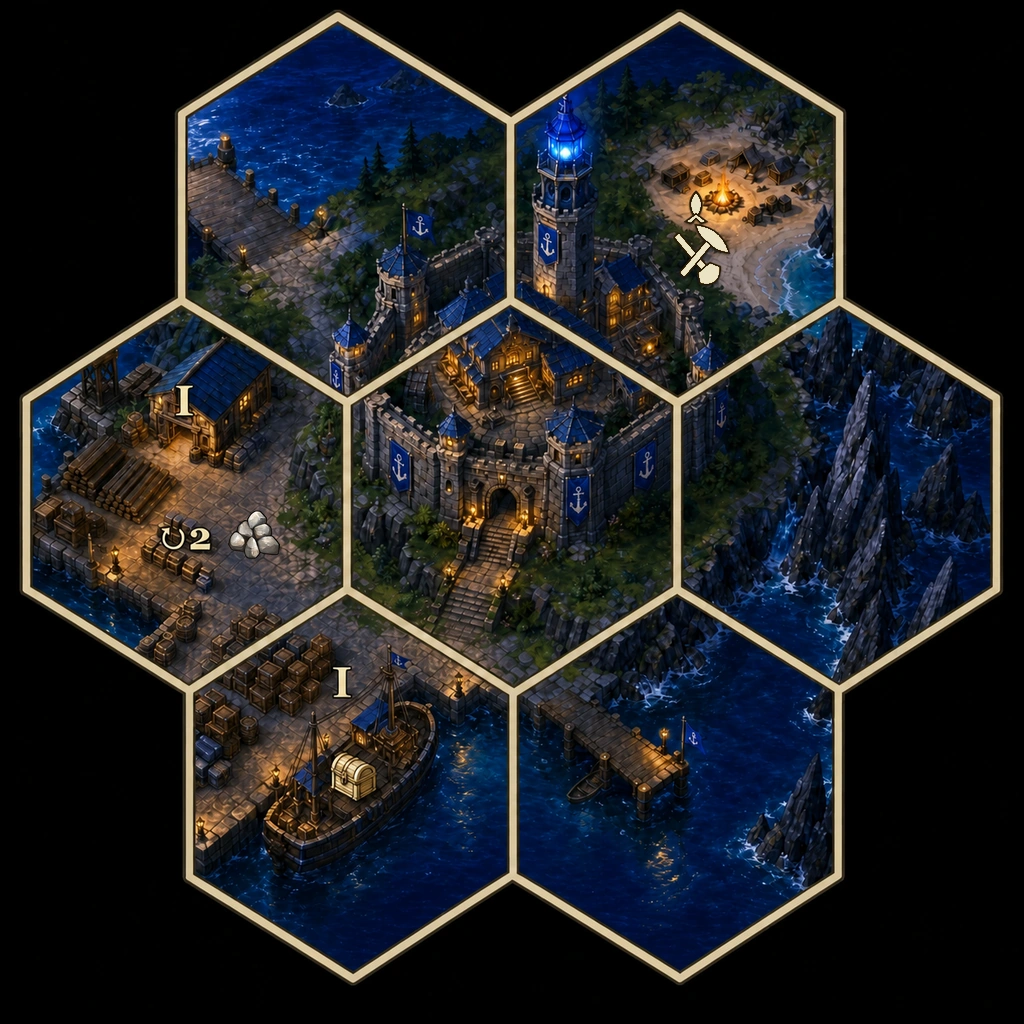
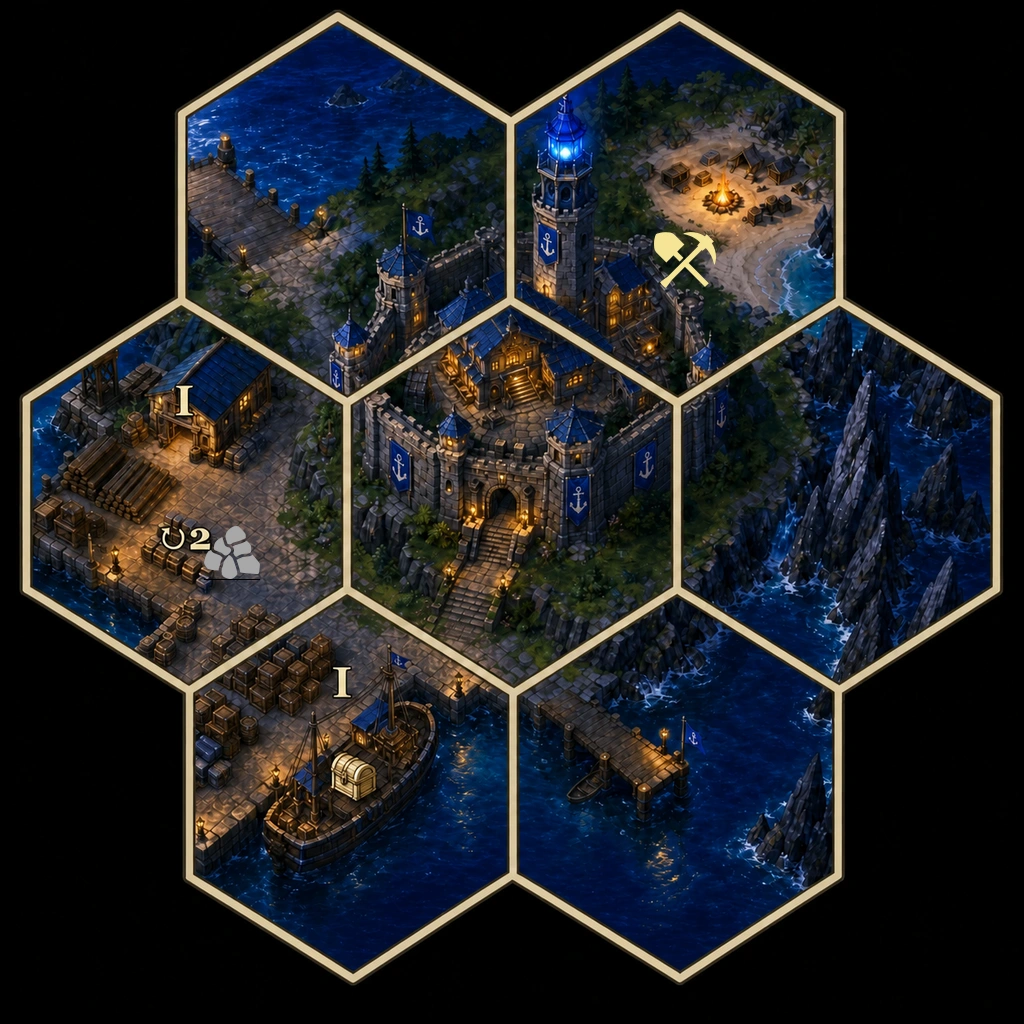
Use canonical resource and mine glyphs

Changed region(s): [[0.625, 0.1875, 0.7188, 0.2812], [0.1875, 0.5, 0.2812, 0.5625]]

diff --git a/src/data/map/field-symbol-modules.ts b/src/data/map/field-symbol-modules.ts
@@ -8,7 +8,7 @@
 import type { ResourceKind } from "@/engine/state";
 
 /** Free resource pickup — cream board-print tools (matches treasure/I gold). */
-export const FIELD_SYMBOL_RESOURCE = "/assets/ui/field-symbol-resource-cream.webp";
+export const FIELD_SYMBOL_RESOURCE = "/assets/glyphs/resource-yellow.svg";
 
 /** Treasure chest glyph (printed cream chest on core tiles). */
 export const FIELD_SYMBOL_TREASURE = "/assets/ui/icon-treasure-chest-glyph.webp";
@@ -16,7 +16,7 @@ export const FIELD_SYMBOL_TREASURE = "/assets/ui/icon-treasure-chest-glyph.webp"
 /** Mine income icon by resource (printed mine buildings use ↻N + pile). */
 export const FIELD_SYMBOL_MINE: Record<ResourceKind, string> = {
   gold: "/assets/icons/resource-gold.webp",
-  buildingMaterials: "/assets/icons/resource-building_materials.webp",
+  buildingMaterials: "/assets/glyphs/building_materials.svg",
   valuables: "/assets/icons/resource-valuables.webp"
 };
 

diff --git a/src/data/assets/board-game-assets.test.ts b/src/data/assets/board-game-assets.test.ts
@@ -27,12 +27,12 @@ function assertRealArt(assetPath: string, minBytes = 1500) {
 }
 
 describe("board-game resource icons", () => {
-  it("wires the three board-game resources to the real local webp icons (not the old .gif)", () => {
+  it("wires the three board-game resources to real local glyph art (not the old .gif)", () => {
     expect(RESOURCE_ICONS.gold).toBe("/assets/icons/resource-gold.webp");
-    expect(RESOURCE_ICONS.buildingMaterials).toBe("/assets/icons/resource-building_materials.webp");
+    expect(RESOURCE_ICONS.buildingMaterials).toBe("/assets/glyphs/building_materials.svg");
     expect(RESOURCE_ICONS.valuables).toBe("/assets/icons/resource-valuables.webp");
     assertRealArt(RESOURCE_ICONS.gold);
-    assertRealArt(RESOURCE_ICONS.buildingMaterials);
+    assertRealArt(RESOURCE_ICONS.buildingMaterials, 1_000);
     assertRealArt(RESOURCE_ICONS.valuables);
   });
 });

diff --git a/src/data/map/field-symbol-modules.test.ts b/src/data/map/field-symbol-modules.test.ts
@@ -19,11 +19,16 @@ function assertRealArt(assetPath: string, minBytes = 2_000) {
 
 describe("field symbol modules (attach, not whole-tile bake)", () => {
   it("ships real transparent modules for resource, treasure, and each mine resource", () => {
-    assertRealArt(FIELD_SYMBOL_RESOURCE);
+    assertRealArt(FIELD_SYMBOL_RESOURCE, 1_000);
     assertRealArt(FIELD_SYMBOL_TREASURE);
     for (const path of Object.values(FIELD_SYMBOL_MINE)) {
       assertRealArt(path);
     }
+  });
+
+  it("uses the canonical field glyphs", () => {
+    expect(FIELD_SYMBOL_RESOURCE).toBe("/assets/glyphs/resource-yellow.svg");
+    expect(FIELD_SYMBOL_MINE.buildingMaterials).toBe("/assets/glyphs/building_materials.svg");
   });
 
   it("maps standard starting-package fields to the right modules", () => {

diff --git a/src/data/assets/homm-assets.ts b/src/data/assets/homm-assets.ts
@@ -184,7 +184,7 @@ export const TOWN_BUILDING_IMAGES: Record<string, Record<string, string>> = {
  */
 export const RESOURCE_ICONS = {
   gold: "/assets/icons/resource-gold.webp",
-  buildingMaterials: "/assets/icons/resource-building_materials.webp",
+  buildingMaterials: "/assets/glyphs/building_materials.svg",
   valuables: "/assets/icons/resource-valuables.webp",
   wood: "/assets/icons/wood_leather.gif",
   gems: "/assets/icons/gem_leather.gif",

diff --git a/src/engine/adventure-setup.ts b/src/engine/adventure-setup.ts
@@ -237,7 +237,7 @@ export const SECRET_TILE_FEATURES: readonly {
     label: "Materials mine",
     shortLabel: "Materials",
     icon: "Materials",
-    iconSrc: "/assets/icons/resource-building_materials.webp",
+    iconSrc: "/assets/glyphs/building_materials.svg",
     description: "A random tile from this pool that has a Building Materials mine."
   },
   {
